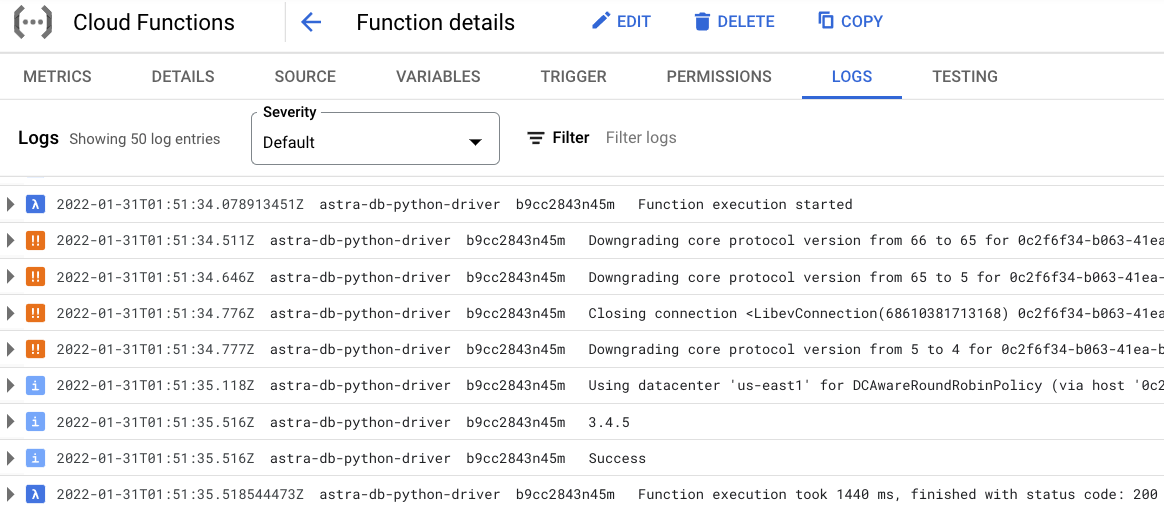
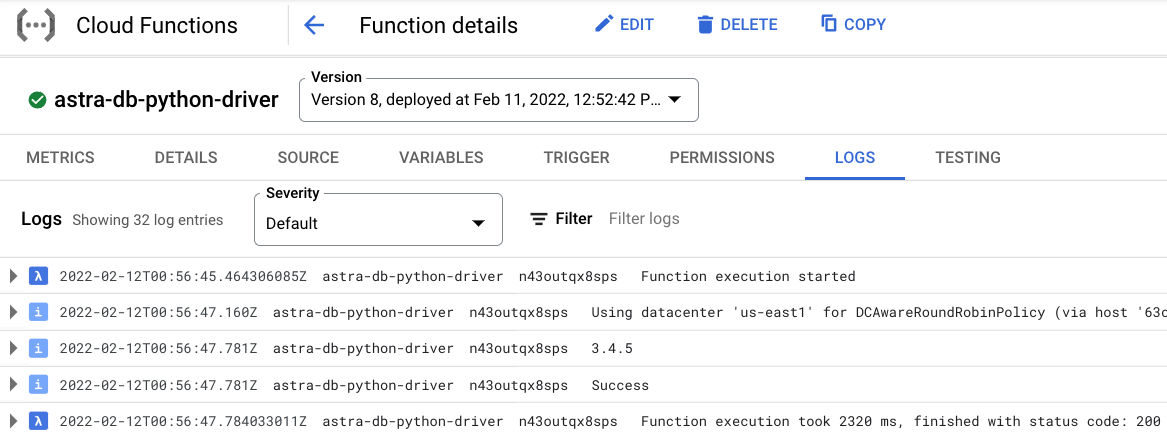
Added protocol version

diff --git a/README.md b/README.md
@@ -97,7 +97,7 @@ def query_astra_db(request):
           'secure_connect_bundle': '/tmp/secure-connect-for-my-database.zip'
     }
     auth_provider = PlainTextAuthProvider(ASTRA_DB_CLIENT_ID, ASTRA_DB_CLIENT_SECRET)
-    cluster = Cluster(cloud=cloud_config, auth_provider=auth_provider)
+    cluster = Cluster(cloud=cloud_config, auth_provider=auth_provider, protocol_version=4)
     session = cluster.connect()
 
     row = session.execute("SELECT cql_version FROM system.local WHERE key = 'local';").one()
